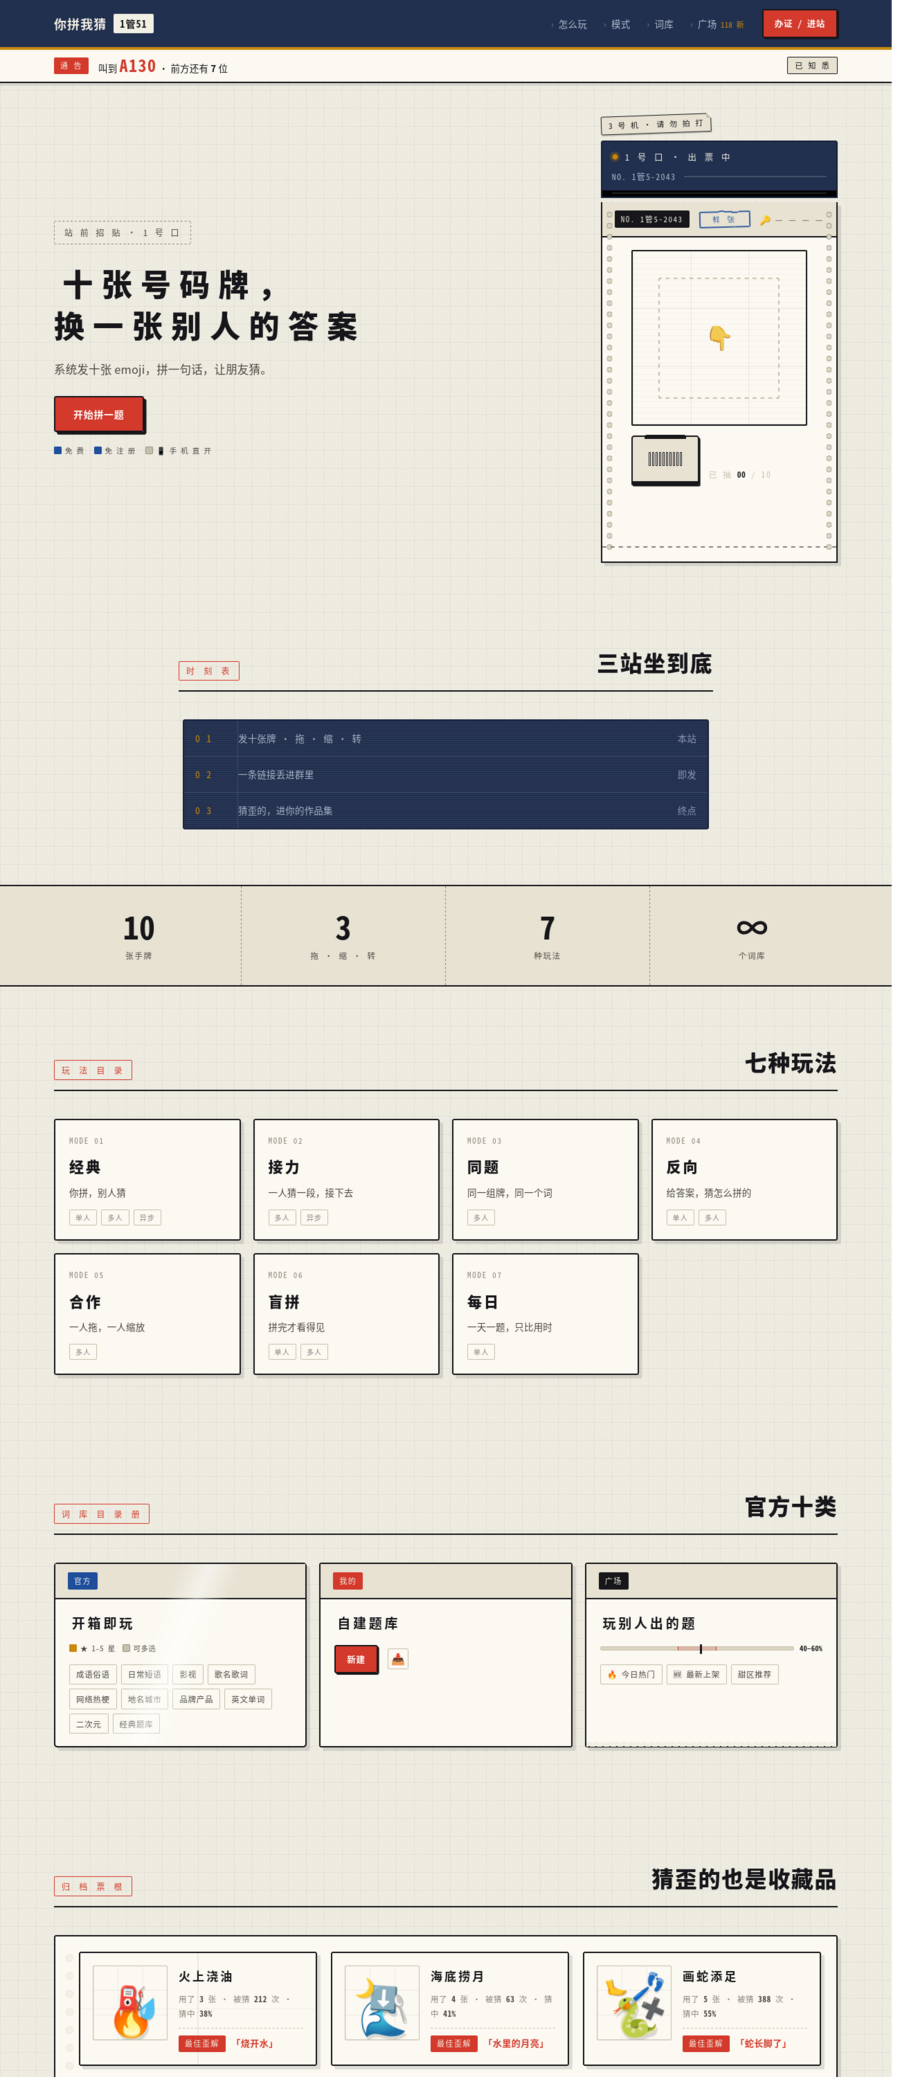
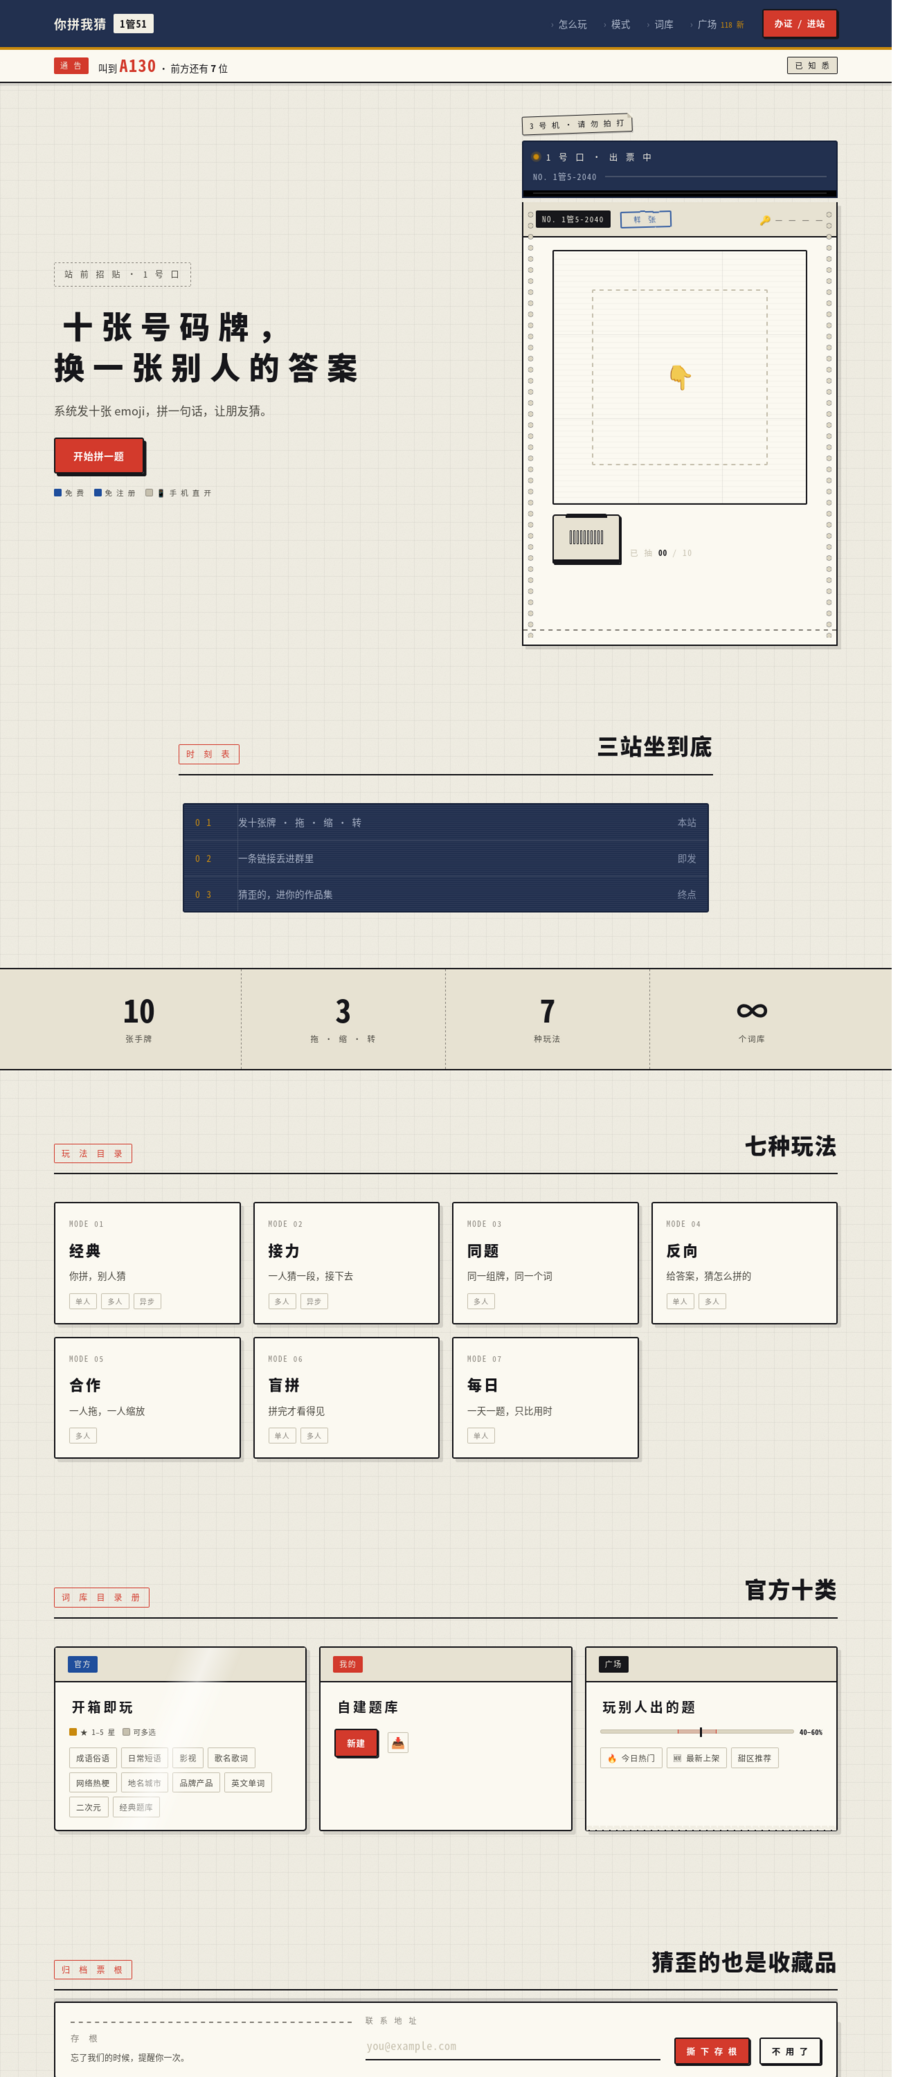
修落地页 hero 右栏尺寸突变（两个叠加的布局 bug）
用户：「/html/body/main/section[1]/div/div[2] 大小会突变」
该元素是 .hero 里的 .bay（取票台：机头 + 样张纸 + 画布 + 签筒）。

## Bug 1：.hand-row 用 flex-wrap + 间隙算错 1px

  .hand-row{display:flex;gap:5px;flex-wrap:wrap}
  .tile{width:calc((100% - 44px) / 10);aspect-ratio:5/6.4}

10 张牌 + 9 个间隙 × 5px = 45px，但公式只减 44px —— 永远超 1px，
最后一张必然被挤到第二排。后果不是「错位」而是**高度翻倍**：
.hand-row 从 46px 跳到约 88px，撑高 #paper → 撑高 .bay → 整个 hero 重排。

改为网格（不可能换行，间隙精确，无 1px 漂移）：
  .hand-row{display:grid;grid-template-columns:repeat(10,1fr);gap:5px;min-height:53px}
  .tile{width:auto;aspect-ratio:5/6.4}
min-height 兜住「演示循环还没发牌」的空状态，让高度与内容无关。

## Bug 2（真正的主因）：grid item 上的 margin-left:auto

  .bay{display:grid;max-width:456px;margin-left:auto}

grid item 上 margin-left:auto 会吸收自由空间，使默认的 justify-self:stretch
失效，元素退化成 **fit-content**（宽由内容决定）。于是：
  .hand-row 一填牌 → max-content 变大 → .bay 从 342px 涨到 395px
  → .stage 是 aspect-ratio:1 → 宽度一变高度跟着变 → hero 变高

用户看到的「大小突变」，其实是**宽度**在变，高度是连带的。

改为 justify-self:end —— 只做对齐、不参与尺寸计算：
  .bay{width:100%;max-width:456px;justify-self:end}

## 验证

四种内容状态下尺寸完全一致：
  空 / 填 10 张 / 再清空 / 只放 3 张
  → bay 456.0×767.3  paper 456.0×640.9  stage 368.0×368.0  hand 368.0×53.0
顺带修好了 .bay 一直没撑满的问题（此前只有 342/395，现在用满 456）。

全站排查了另外 50 处 margin-left:auto：都是 flex 行里推小元素的用法，
fit-content 正是想要的，无风险。危险模式只在「容器宽度决定后代
aspect-ratio 高度」时成立 —— 全站只有 .bay 中招。

diff --git a/app/index.html b/app/index.html
@@ -44,7 +44,14 @@ section[id]{scroll-margin-top:130px}
 .pips{display:flex;gap:10px;flex-wrap:wrap;align-items:center}
 
 /* ---------- 取票台：机头（牌）+ 从出票口吐出来的样张（纸） ---------- */
-.bay{display:grid;gap:10px;max-width:456px;margin-left:auto}
+/* ⚠ 这里不能用 margin-left:auto 来右对齐。
+   grid item 上 margin-left:auto 会吸收自由空间，使 justify-self:stretch 失效，
+   元素退化成 **fit-content**（由内容决定宽）——
+   .hand-row 一填牌，max-content 变大，.bay 就从 342px 涨到 395px；
+   而 .stage 是 aspect-ratio:1，宽度一变高度跟着变，整个 hero 随之重排。
+   用户看到的就是「这块大小会突变」。
+   justify-self:end 只做对齐、不参与尺寸计算，宽度从此与内容无关。 */
+.bay{display:grid;gap:10px;width:100%;max-width:456px;justify-self:end}
 @media(max-width:960px){.bay{max-width:520px;margin:0 auto}}
 .bay-hd{display:flex;align-items:center;gap:12px;flex-wrap:wrap}
 
@@ -112,8 +119,15 @@ section[id]{scroll-margin-top:130px}
   transition:opacity .3s,background .3s}
 .tube i.out{opacity:.1;background:transparent}
 
-.hand-row{display:flex;gap:5px;flex-wrap:wrap;min-height:46px}
-.tile{position:relative;flex:0 0 auto;width:calc((100% - 44px) / 10);aspect-ratio:5/6.4;
+/* 十张牌：必须是**网格**，不能用 flex-wrap。
+   原来写的是 flex + width:calc((100% - 44px)/10) —— 10 张牌 + 9 个 5px 间隙 = 45px，
+   但公式只减 44px，永远超 1px，最后一张必然被挤到第二排。
+   后果不是"错位"，是**高度翻倍**：.hand-row 从 46px 跳到约 88px，
+   撑高 #paper → 撑高 .bay → 整个 hero 重排（用户看到的「大小突变」）。
+   网格给死 10 列，浏览器自己分配余数，既不会换行也没有 1px 漂移。
+   min-height 兜住「演示循环还没发牌」的空状态，让高度与内容无关。 */
+.hand-row{display:grid;grid-template-columns:repeat(10,1fr);gap:5px;min-height:53px}
+.tile{position:relative;width:auto;aspect-ratio:5/6.4;
   border-radius:2px;display:grid;place-items:center;font-family:var(--emoji);font-size:19px;
   background:var(--paper-2);border:1.5px solid var(--ink-4);transition:.3s}
 .tile.used{border-color:var(--blue);background:var(--paper-4);transform:translateY(-4px);
